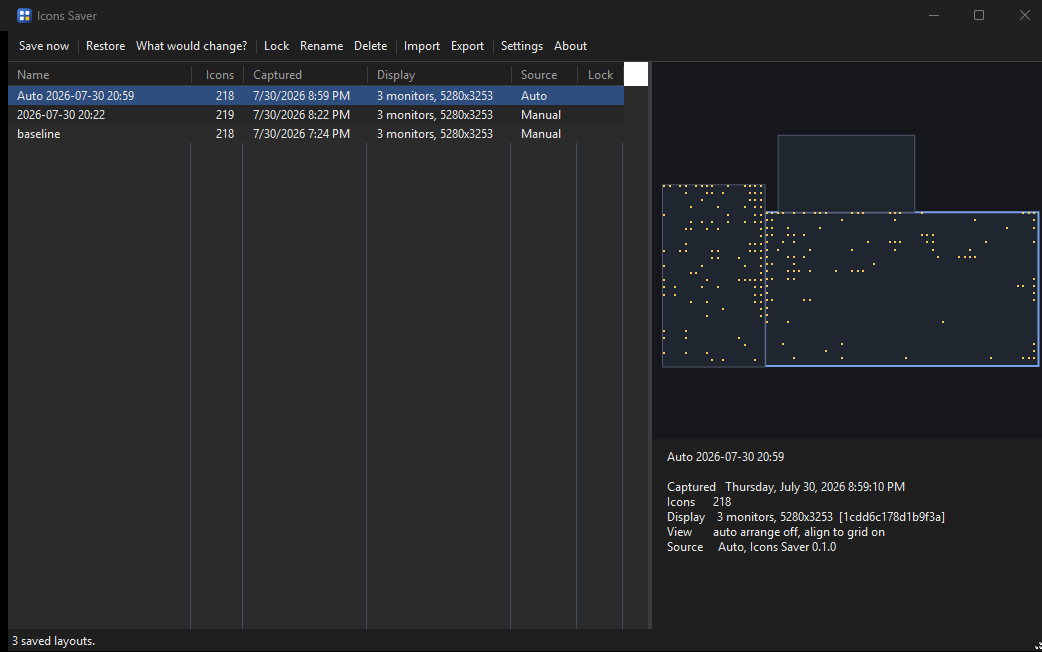
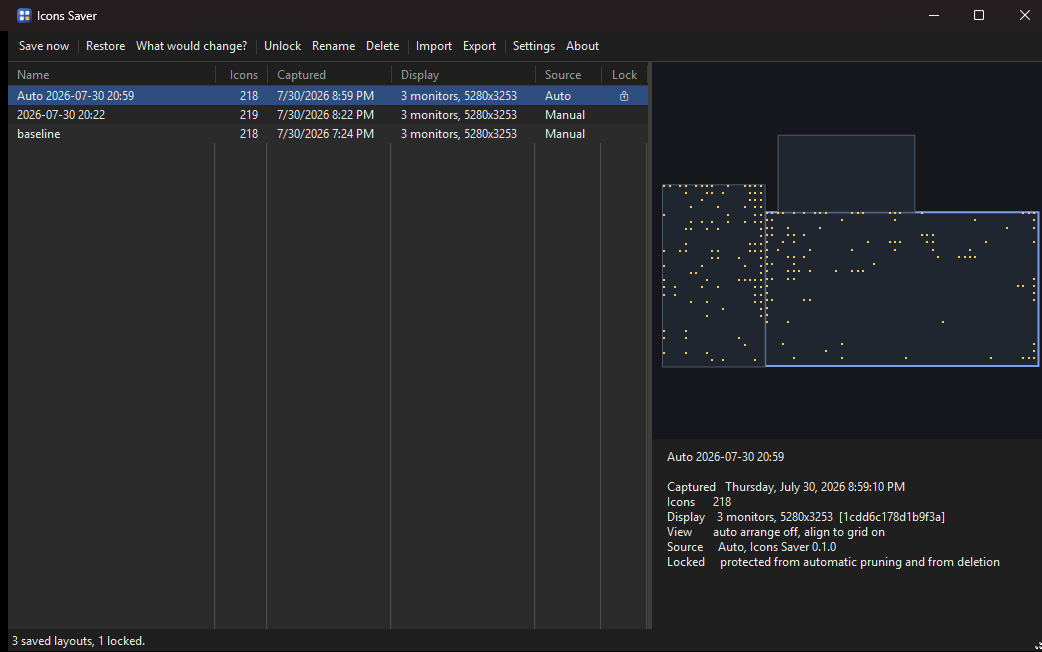
fix(app): stretch the name column so no unthemed header strip is left over

diff --git a/src/IconsSaver.App/MainForm.cs b/src/IconsSaver.App/MainForm.cs
@@ -152,10 +152,47 @@ internal sealed class MainForm : Form
         {
             _split.SplitterDistance = Math.Clamp(_split.Width - DetailsPanelWidth, lowest, highest);
         }
+
+        FitColumns();
+    }
+
+    /// <summary>
+    /// Stretches the name column so the columns always fill the list exactly.
+    /// </summary>
+    /// <remarks>
+    /// Not cosmetic. Any width left over after the last column is header area that the list view
+    /// paints itself, and it paints it in the system colour — which on a dark window is a bright
+    /// white strip that no owner-draw handler is ever asked about. Leaving no spare width is the
+    /// simplest way to make it impossible.
+    /// </remarks>
+    private void FitColumns()
+    {
+        if (_list.Columns.Count == 0)
+        {
+            return;
+        }
+
+        int others = 0;
+        for (int index = 1; index < _list.Columns.Count; index++)
+        {
+            others += _list.Columns[index].Width;
+        }
+
+        // ClientSize already excludes the vertical scroll bar when one is showing.
+        _list.Columns[0].Width = Math.Max(120, _list.ClientSize.Width - others);
     }
 
     private void WireEvents()
     {
+        _list.Resize += (_, _) => FitColumns();
+        _list.ColumnWidthChanged += (_, e) =>
+        {
+            if (e.ColumnIndex != 0)
+            {
+                FitColumns();
+            }
+        };
+
         _list.SelectedIndexChanged += (_, _) => OnSelectionChanged();
         _list.DoubleClick += OnRestore;
         _list.DrawColumnHeader += OnDrawColumnHeader;
